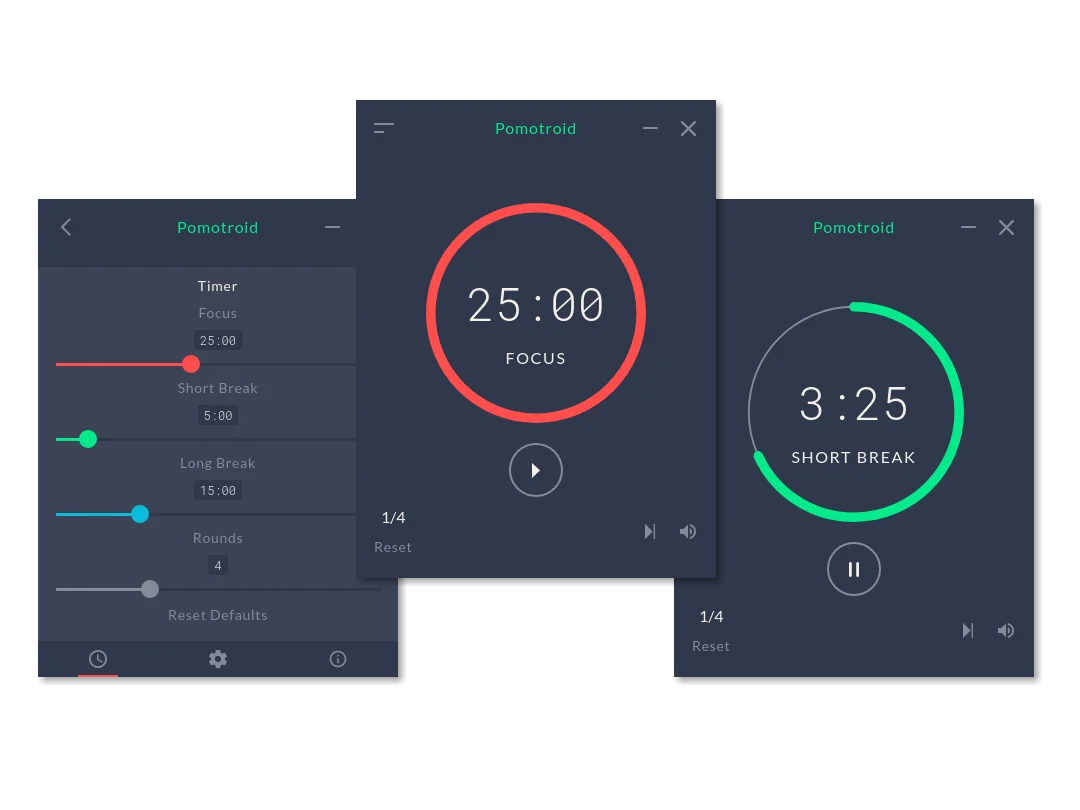
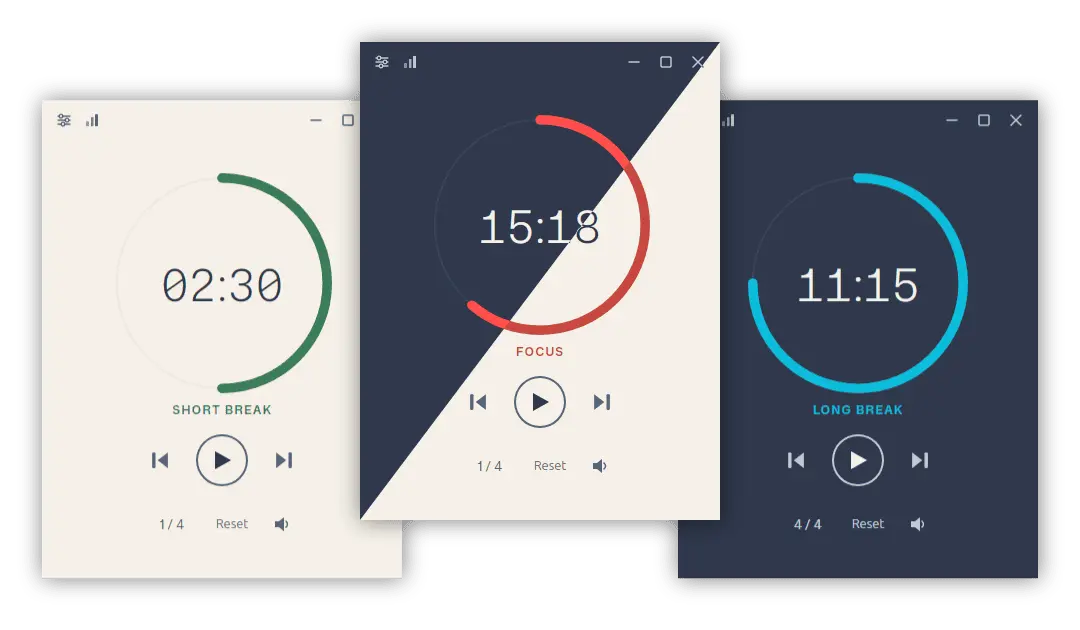
feat: Add Pomotroid v1.0.0 release post.
- Update screenshots.

diff --git a/assets/scss/main.scss b/assets/scss/main.scss
@@ -193,7 +193,6 @@
 .features__screenshot {
   img {
     border-radius: 8px;
-    box-shadow: 0 8px 32px rgba(0, 0, 0, 0.15);
   }
 }
 
@@ -451,6 +450,14 @@
   }
 }
 
+// ─── Post Cover ───────────────────────────────────────────────────────────────
+
+.post-cover {
+  width: 100%;
+  border-radius: 8px;
+  margin-bottom: 2.5rem;
+}
+
 // ─── Single Post ──────────────────────────────────────────────────────────────
 
 .post-header {
@@ -503,6 +510,12 @@
 
   p { margin-bottom: 1.25rem; }
 
+  hr {
+    border: none;
+    border-top: 1px solid rgba(255, 255, 255, 0.12);
+    margin-block: 2.5rem;
+  }
+
   a {
     color: $color-green;
     text-decoration: underline;
@@ -513,7 +526,22 @@
   img {
     border-radius: 8px;
     margin-block: 2rem;
-    box-shadow: 0 4px 16px rgba(0, 0, 0, 0.2);
+  }
+
+  figure {
+    margin-block: 2rem;
+
+    img {
+      margin-block: 0;
+    }
+  }
+
+  figcaption {
+    font-size: 0.8rem;
+    color: $color-foreground-darker;
+    opacity: 0.6;
+    margin-top: 0.6rem;
+    letter-spacing: 0.02em;
   }
 
   code {

diff --git a/layouts/index.html b/layouts/index.html
@@ -80,7 +80,7 @@
           <div class="features__screenshot">
             <picture>
               <source srcset="/pomotroid-screens.webp" type="image/webp" />
-              <img src="/pomotroid-screens.png" alt="Pomotroid screenshots" width="1080" height="810" loading="lazy" />
+              <img src="/pomotroid-screens.png" alt="Pomotroid screenshots" width="1080" height="630" loading="lazy" />
             </picture>
           </div>
 
@@ -105,9 +105,9 @@
         <div class="news-grid">
           {{ range first 3 ($newsPosts.ByDate.Reverse) }}
           <a href="{{ .RelPermalink }}" class="news-card">
-            {{ if .Params.cover }}
+            {{ with .Resources.GetMatch .Params.cover }}
             <div class="news-card__cover">
-              <img src="{{ .Params.cover | relURL }}" alt="{{ .Title }}" loading="lazy" />
+              <img src="{{ .RelPermalink }}" alt="{{ $.Title }}" loading="lazy" />
             </div>
             {{ end }}
             <div class="news-card__body">

diff --git a/layouts/news/list.html b/layouts/news/list.html
@@ -22,9 +22,9 @@
         <div class="news-grid">
           {{ range $paginator.Pages }}
           <a href="{{ .RelPermalink }}" class="news-card">
-            {{ if .Params.cover }}
+            {{ with .Resources.GetMatch .Params.cover }}
             <div class="news-card__cover">
-              <img src="{{ .Params.cover | relURL }}" alt="{{ .Title }}" loading="lazy" />
+              <img src="{{ .RelPermalink }}" alt="{{ $.Title }}" loading="lazy" />
             </div>
             {{ end }}
             <div class="news-card__body">

diff --git a/layouts/news/single.html b/layouts/news/single.html
@@ -14,6 +14,9 @@
           <h1 class="post-header__title">{{ .Title }}</h1>
           <time class="post-header__date" datetime="{{ .Date.Format "2006-01-02" }}">{{ .Date.Format "January 2, 2006" }}</time>
         </div>
+        {{ with .Resources.GetMatch .Params.cover }}
+        <img src="{{ .RelPermalink }}" alt="{{ $.Title }}" class="post-cover" />
+        {{ end }}
         <div class="post-body">
           {{ .Content }}
         </div>

diff --git a/content/news/pomotroid-v1-0-0/index.md b/content/news/pomotroid-v1-0-0/index.md
@@ -1,0 +1,54 @@
+---
+title: "Pomotroid v1.0.0"
+date: 2026-03-02
+description: "A complete rewrite — smaller, faster, and native. Pomotroid 1.0 ships on Tauri 2, Rust, and Svelte 5."
+cover: cover.png
+---
+
+Eight years after the first commit, Pomotroid 1.0 is out.
+
+It's a complete rewrite. The Electron + Vue stack that carried the app from v0.1 through v0.13 has been replaced with a native [Tauri 2](https://tauri.app) application backed by Rust and Svelte 5. No Chromium. No Node runtime bundled into your menu bar. The installer on Windows is under 5 MB.
+
+## Why rewrite it
+
+The original app worked, but it carried Electron's weight everywhere — a full browser engine sitting behind a 300×400 timer window. Tauri fixes the fundamental mismatch: the UI is still web tech (Svelte, CSS), but the platform layer is native Rust, and the OS webview handles rendering. The result is a dramatically smaller binary, faster startup, and lower memory use at idle.
+
+The rewrite also gave a chance to fix things that were architecturally awkward in the old codebase. The biggest one: the timer itself.
+
+## A timer that doesn't drift
+
+The v0.x timer ran on a web worker using `setInterval`. Web worker timers are not guaranteed to fire on schedule — the browser can throttle them, and small delays compound over a long session. A 25-minute focus round could finish noticeably late.
+
+The new timer runs on a dedicated Rust thread using `std::time::Instant` with a fixed tick schedule. Drift doesn't accumulate. Sleep and wake are handled correctly — the timer pauses on OS sleep and resumes from the right position, so a laptop lid closing mid-session no longer causes a missed round.
+
+## Statistics
+
+1.0 ships with a full statistics window: today's focus time and hourly breakdown, a weekly bar chart with streak tracking, and a 52-week heatmap for the long view. All charts are pure SVG — no charting library — and they pull their colours from whichever theme is active. Session data is written to SQLite as rounds complete.
+
+{{< figure src="stats-daily.png" alt="Today tab showing rounds, focus time, and sessions by hour" caption="Today — rounds completed, total focus time, and an hourly breakdown chart." >}}
+
+{{< figure src="stats-weekly.png" alt="This Week tab showing a daily bar chart and current streak" caption="This Week — daily round counts for the past seven days and your current streak." >}}
+
+{{< figure src="stats-alltime.png" alt="All Time tab showing a 52-week heatmap and lifetime totals" caption="All Time — a 52-week heatmap alongside lifetime round and focus hour totals." >}}
+
+## Themes
+
+37 bundled themes, including Dracula, Nord, Tokyo Night, Gruvbox, Catppuccin (four variants), Rose Piné (three variants), Solarized, and more. Auto light/dark mode follows your OS preference, with separate theme pickers for each. Custom themes still work the same way — drop a JSON file into the themes folder and it appears instantly.
+
+## Global shortcuts, WebSocket, and the rest
+
+A quick tour of the other headliners:
+
+- **Global shortcuts** — toggle, reset, skip, and restart round. Fully rebindable. Work when the window is hidden to the tray.
+- **Dynamic tray icon** — a progress arc rendered in Rust with `tiny-skia`, coloured by round type, with an optional countdown mode.
+- **WebSocket server** — opt-in local server for stream overlays and external integrations. Broadcasts the full timer lifecycle.
+- **7 languages** — English, Spanish, French, German, Japanese, Simplified Chinese, and Portuguese. Auto-detected from your OS locale.
+- **Configurable audio** — per-round alert cues, custom audio files, tick sounds, and a volume slider. Playback runs on a dedicated thread and works when the window is hidden.
+
+## One thing to know if you're upgrading
+
+Settings no longer live in `user-preferences.json`. They've moved to SQLite, and preferences will reset to defaults on first launch after upgrading from v0.x. Custom theme JSON files from older versions are fully compatible — nothing to change there.
+
+---
+
+[Download Pomotroid v1.0.0](https://github.com/Splode/pomotroid/releases/tag/v1.0.0) for Windows, macOS, and Linux. Full changelog on GitHub.

diff --git a/content/news/welcome/index.md b/content/news/welcome/index.md
@@ -2,6 +2,7 @@
 title: "Welcome to the Pomotroid News Feed"
 date: 2026-03-06
 description: "A place for development updates, release notes, and community news."
+cover: cover.png
 ---
 
 Welcome to the Pomotroid news feed — a place to share what's happening with the app, from new releases to behind-the-scenes development updates.
